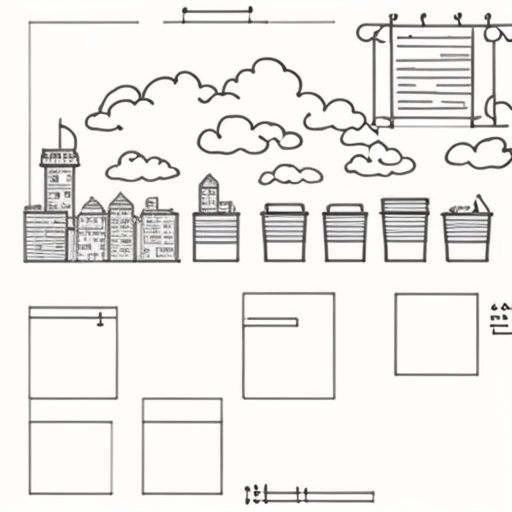
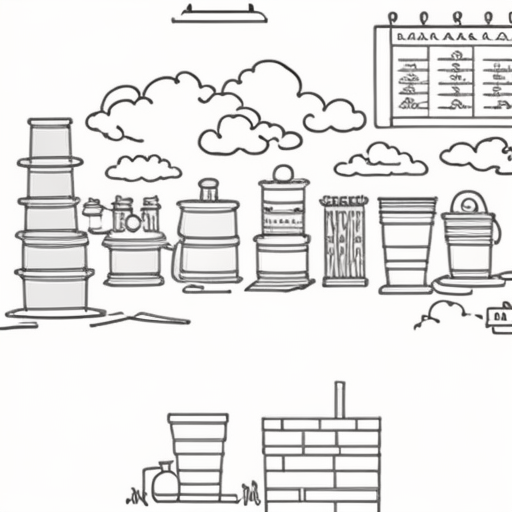
img2img vs txt2img random-weeks contrast + lifted cup cap
Two changes that respond to a real observation: the previous random-weeks
outputs all looked similar because (a) cup count was capped at 8 in both
prompt and collage so every seed produced the same prompt, and (b) the
script was using img2img on a deterministic collage seed, which kept the
SD output close to the collage layout regardless of denoising budget.

  - prompt_builder cup cap raised from 8 to 24 so per-week count is
    actually expressed (random weeks now produce 13, 13, 16, 24 cups
    instead of all 8).
  - base_collage cup visual cap raised from 8 to 16 with a two-row layout;
    place-icon grid shifts down when cups overflow.
  - scripts/random_weeks_txt2img.py: pure txt2img counterpart to
    random_weeks_doodle.py — same prompts, no collage seed, per-week noise
    seed, pixelize at 1024.

Reading: img2img is the structurally-stable path (output stays close to
the collage, white background preserved), txt2img is the wild-imagination
path (full-bleed color, very different per seed, less faithful to the
"white postcard" intent of the original prompt). The original 하찮은
프롬프트 was img2img on a real photo, so the img2img path is closer to the
canonical use case — but the txt2img variation is more interesting for
research.

Bonus finding: pixelizing a txt2img output is much stronger than
pixelizing an img2img doodle, because the txt2img source has flat
saturated colors that survive 16-color quantization. random_w11_txt2img_pixel
reads as a 16-bit game pattern.

diff --git a/scripts/random_weeks_txt2img.py b/scripts/random_weeks_txt2img.py
@@ -1,0 +1,76 @@
+"""Same random weeks, but pure txt2img — no collage seed.
+
+This isolates the prompt-driven variation from the layout-driven variation.
+Each week gets its own noise seed so the SD-Turbo random init differs too.
+
+Output: samples/random_w<seed>_txt2img.png        raw SD output
+        samples/random_w<seed>_txt2img_pixel.png  pixelize at 1024x1024
+
+Same SD-Turbo settings the doodle path uses (4 steps, guidance 0).
+"""
+from __future__ import annotations
+
+import sys
+import time
+from pathlib import Path
+
+ROOT = Path(__file__).resolve().parent.parent
+sys.path.insert(0, str(ROOT))
+
+from src import diary, prompt_builder, generator  # noqa: E402
+from src.pixelize import pixelize  # noqa: E402
+
+# Reuse the same synthetic-week generator
+from scripts.random_weeks_doodle import make_random_week  # noqa: E402
+
+
+SAMPLES = ROOT / "samples"
+SAMPLES.mkdir(exist_ok=True)
+
+
+def run_one(seed: int) -> dict:
+    week = make_random_week(seed)
+    summary = diary.summarize(week)
+    built = prompt_builder.build(summary)
+
+    print(f"\n[t2i] seed={seed}  cups_in_prompt={summary.water_event_count}")
+    print(f"[t2i]   subjects={built.subjects}")
+
+    t = time.time()
+    img = generator.generate_txt2img(
+        prompt=built.positive,
+        negative_prompt=built.negative,
+        steps=4,
+        guidance=0.0,
+        width=512,
+        height=512,
+        seed=seed,  # use the week seed itself as noise seed
+    )
+    raw_path = SAMPLES / f"random_w{seed}_txt2img.png"
+    img.save(raw_path)
+    print(f"[t2i]   raw -> {raw_path.name}  ({time.time() - t:.1f}s)")
+
+    pixel = pixelize(img, grid=64, colors=16, output_size=1024)
+    pixel_path = SAMPLES / f"random_w{seed}_txt2img_pixel.png"
+    pixel.save(pixel_path)
+    print(f"[t2i]   pixel -> {pixel_path.name}")
+
+    return {
+        "seed": seed,
+        "summary": diary.summary_to_text(summary),
+        "subjects": built.subjects,
+        "prompt": built.positive,
+        "raw": raw_path.name,
+        "pixel": pixel_path.name,
+    }
+
+
+def main() -> None:
+    rows = []
+    for s in [11, 22, 33, 44]:
+        rows.append(run_one(s))
+    print("\n[t2i] all done")
+
+
+if __name__ == "__main__":
+    main()

diff --git a/src/base_collage.py b/src/base_collage.py
@@ -160,20 +160,32 @@ def render(summary: WeekSummary, size: int = 512) -> Image.Image:
     # Top-right: weather icon (large)
     _draw_weather(draw, summary.dominant_weather, cx=size - 90, cy=90, r=46)
 
-    # Top row: water cups (count = water_event_count, capped at 8)
-    cups = max(1, min(summary.water_event_count, 8))
+    # Water cups: cap at 16 so they fit in two rows of 8 inside 512 width.
+    # The prompt builder caps at 24, so the count visible here is at most 16
+    # while the prompt may say up to 24 — fine, both are upper bounds and
+    # the SD model approximates either way.
+    cups = max(1, min(summary.water_event_count, 16))
     cup_w = 48
-    cup_h = 60
-    row_y = 200
-    total_w = cups * cup_w + (cups - 1) * 12
-    start_x = (size - total_w) // 2
-    for i in range(cups):
-        x = start_x + i * (cup_w + 12)
-        _draw_cup(draw, x, row_y, cup_w, cup_h)
+    cup_h = 56
+    cups_per_row = 8
+    rows_needed = (cups + cups_per_row - 1) // cups_per_row
+    row_y0 = 190
+    for idx in range(cups):
+        r = idx // cups_per_row
+        c = idx % cups_per_row
+        cups_in_this_row = min(cups - r * cups_per_row, cups_per_row)
+        total_w = cups_in_this_row * cup_w + (cups_in_this_row - 1) * 12
+        start_x = (size - total_w) // 2
+        x = start_x + c * (cup_w + 12)
+        y = row_y0 + r * (cup_h + 14)
+        _draw_cup(draw, x, y, cup_w, cup_h)
 
-    # Bottom area: 2x4 grid of place icons
+    # When two rows of cups push the place icons down, also push the grid
+    grid_y_offset = (rows_needed - 1) * (cup_h + 14)
+
+    # Bottom area: 2x4 grid of place icons (shifted down if cup rows used 2)
     cats = list(summary.place_categories.keys())[:8]
-    grid_y = 320
+    grid_y = 320 + grid_y_offset
     cell_w, cell_h = 100, 80
     for idx, cat in enumerate(cats):
         col = idx % 4

diff --git a/src/prompt_builder.py b/src/prompt_builder.py
@@ -59,9 +59,11 @@ class BuiltPrompt:
 def build(summary: WeekSummary) -> BuiltPrompt:
     subjects: list[str] = []
 
-    # Water as the protagonist — count drives how many cups
-    cups = max(1, min(summary.water_event_count, 8))
-    subjects.append(f"{cups} mismatched water cups arranged in a row")
+    # Water as the protagonist — count drives how many cups. Cap at 24
+    # so the prompt stays under CLIP's 77-token budget but lets weekly
+    # variation actually show in the output instead of always saturating.
+    cups = max(1, min(summary.water_event_count, 24))
+    subjects.append(f"{cups} mismatched water cups arranged in two rows")
 
     # Weather → mood element
     weather_tok = WEATHER_TOKENS.get(summary.dominant_weather)

diff --git a/samples/random_weeks.md b/samples/random_weeks.md
@@ -11,7 +11,7 @@ Four randomized weekly diaries fed through the same pipeline:
 
 | seed | summary | subjects in prompt | collage | SD-Turbo doodle | pixel-perfect |
 | --- | --- | --- | --- | --- | --- |
-| 11 | Week 2026-04-27 ~ 2026-05-03 \| Total water: 5800 ml across 24 sips \| Avg/day: 828.6 ml \| Dominant weather: windy (avg 13.4 C) \| Place categories: {'cafe': 1, 'bookstore': 1, 'work': 1} \| Top places: Cafe, Bookstore, Workplace | 8 mismatched water cups arranged in a row; squiggly wind lines, leaves flying sideways; wobbly coffee cup with steam squiggles; stack of crooked books; ugly rectangle building with mismatched windows | ![](random_w11_collage.png) | ![](random_w11_doodle.png) | ![](random_w11_pixel.png) |
-| 22 | Week 2026-04-27 ~ 2026-05-03 \| Total water: 3600 ml across 16 sips \| Avg/day: 514.3 ml \| Dominant weather: cloudy (avg 7.1 C) \| Place categories: {'restaurant': 2, 'landmark': 2, 'work': 2, 'market': 2, 'home': 3, 'cafe': 1} \| Top places: Apartment, Restaurant, Tower, Workplace, Market | 8 mismatched water cups arranged in a row; lumpy clouds doodled across the top; bowl with wavy noodles; tower drawn with shaky vertical lines; ugly rectangle building with mismatched windows; shopping cart with random shapes inside | ![](random_w22_collage.png) | ![](random_w22_doodle.png) | ![](random_w22_pixel.png) |
-| 33 | Week 2026-04-27 ~ 2026-05-03 \| Total water: 3250 ml across 13 sips \| Avg/day: 464.3 ml \| Dominant weather: snowy (avg 14.7 C) \| Place categories: {'landmark': 1, 'market': 3, 'bookstore': 2, 'work': 1} \| Top places: Market, Bookstore, Tower, Workplace | 8 mismatched water cups arranged in a row; scattered snowflakes drawn as asterisks; tower drawn with shaky vertical lines; shopping cart with random shapes inside; stack of crooked books; ugly rectangle building with mismatched windows | ![](random_w33_collage.png) | ![](random_w33_doodle.png) | ![](random_w33_pixel.png) |
-| 44 | Week 2026-04-27 ~ 2026-05-03 \| Total water: 3200 ml across 13 sips \| Avg/day: 457.1 ml \| Dominant weather: windy (avg 9.6 C) \| Place categories: {'market': 2, 'restaurant': 3, 'work': 2, 'home': 1, 'cafe': 1, 'landmark': 1} \| Top places: Restaurant, Market, Workplace, Apartment, Cafe | 8 mismatched water cups arranged in a row; squiggly wind lines, leaves flying sideways; shopping cart with random shapes inside; bowl with wavy noodles; ugly rectangle building with mismatched windows; tiny house with a triangle roof | ![](random_w44_collage.png) | ![](random_w44_doodle.png) | ![](random_w44_pixel.png) |
+| 11 | Week 2026-04-27 ~ 2026-05-03 \| Total water: 5800 ml across 24 sips \| Avg/day: 828.6 ml \| Dominant weather: windy (avg 13.4 C) \| Place categories: {'cafe': 1, 'bookstore': 1, 'work': 1} \| Top places: Cafe, Bookstore, Workplace | 24 mismatched water cups arranged in two rows; squiggly wind lines, leaves flying sideways; wobbly coffee cup with steam squiggles; stack of crooked books; ugly rectangle building with mismatched windows | ![](random_w11_collage.png) | ![](random_w11_doodle.png) | ![](random_w11_pixel.png) |
+| 22 | Week 2026-04-27 ~ 2026-05-03 \| Total water: 3600 ml across 16 sips \| Avg/day: 514.3 ml \| Dominant weather: cloudy (avg 7.1 C) \| Place categories: {'restaurant': 2, 'landmark': 2, 'work': 2, 'market': 2, 'home': 3, 'cafe': 1} \| Top places: Apartment, Restaurant, Tower, Workplace, Market | 16 mismatched water cups arranged in two rows; lumpy clouds doodled across the top; bowl with wavy noodles; tower drawn with shaky vertical lines; ugly rectangle building with mismatched windows; shopping cart with random shapes inside | ![](random_w22_collage.png) | ![](random_w22_doodle.png) | ![](random_w22_pixel.png) |
+| 33 | Week 2026-04-27 ~ 2026-05-03 \| Total water: 3250 ml across 13 sips \| Avg/day: 464.3 ml \| Dominant weather: snowy (avg 14.7 C) \| Place categories: {'landmark': 1, 'market': 3, 'bookstore': 2, 'work': 1} \| Top places: Market, Bookstore, Tower, Workplace | 13 mismatched water cups arranged in two rows; scattered snowflakes drawn as asterisks; tower drawn with shaky vertical lines; shopping cart with random shapes inside; stack of crooked books; ugly rectangle building with mismatched windows | ![](random_w33_collage.png) | ![](random_w33_doodle.png) | ![](random_w33_pixel.png) |
+| 44 | Week 2026-04-27 ~ 2026-05-03 \| Total water: 3200 ml across 13 sips \| Avg/day: 457.1 ml \| Dominant weather: windy (avg 9.6 C) \| Place categories: {'market': 2, 'restaurant': 3, 'work': 2, 'home': 1, 'cafe': 1, 'landmark': 1} \| Top places: Restaurant, Market, Workplace, Apartment, Cafe | 13 mismatched water cups arranged in two rows; squiggly wind lines, leaves flying sideways; shopping cart with random shapes inside; bowl with wavy noodles; ugly rectangle building with mismatched windows; tiny house with a triangle roof | ![](random_w44_collage.png) | ![](random_w44_doodle.png) | ![](random_w44_pixel.png) |
